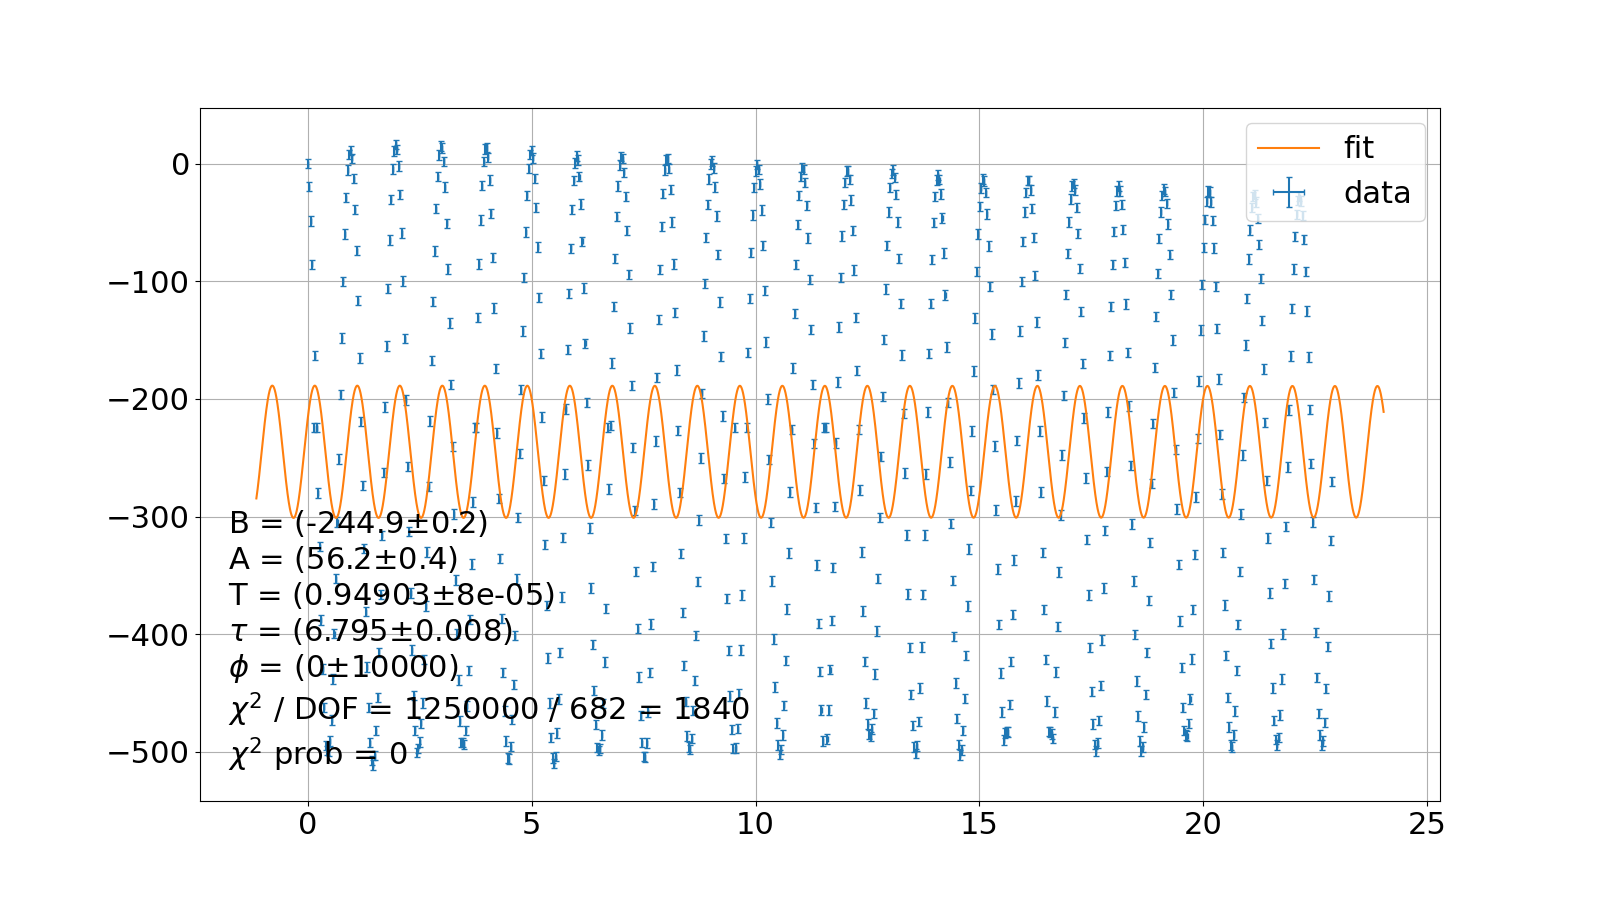
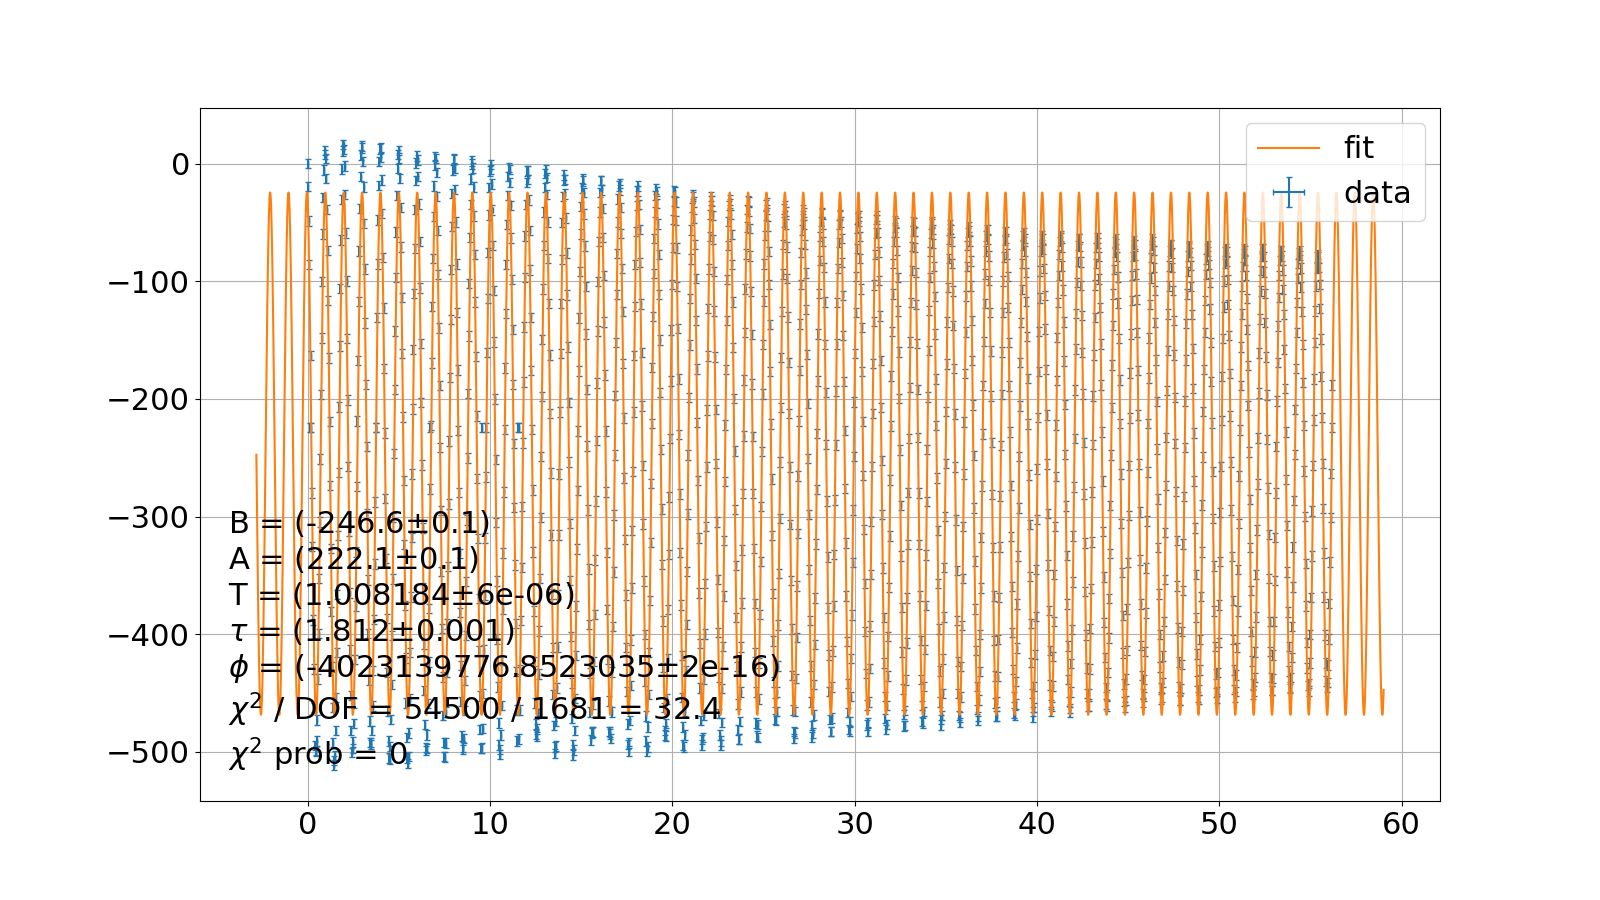
added bounds possibility to curve fitting

diff --git a/main.py b/main.py
@@ -16,8 +16,9 @@ def run_main(filename, show=False, save=False):
     data = data_loader.DataLoader(filename)
     model = fit_models.DecayingSinusoid()
 
+
     fit = fitting.Fitting(model=model, x=data.x, x_error=data.x_error, y_measured=data.y, y_error=data.y_error,
-                          units_for_parameters=('', '', '', '', ''), p0=(150, 100, 1, 10, 50))
+                          units_for_parameters=('', '', '', '', ''), p0=(150, 100, 1, 1.5, 50))
 
     fig, ax = plt.subplots(1, 1, figsize=(16, 9))
 
@@ -46,12 +47,9 @@ vary_angle_filenames = {angle : 'vary_angle_%s' % angle for angle in ['20deg', '
 vary_l_filenames = {l : 'vary_l_%s' % l for l in ['15cm', '20cm', '25cm', '30cm', '35cm']}
 vary_m_filenames = {m : 'vary_m_%s' % m for m in ['50g', '100g', '150g', '200g']}
 
-print(vary_l_filenames)
 
 all_filenames = {**vary_angle_filenames, **vary_l_filenames, **vary_m_filenames}
 
-print(len(vary_angle_filenames), len(vary_l_filenames), len(vary_m_filenames))
-print(len(all_filenames))
 
 # filename = vary_angle_filenames['20cm']
 # single_run_main(filename)

diff --git a/fitting.py b/fitting.py
@@ -20,7 +20,11 @@ class Fitting():
         self.y_measured = y_measured
         self.y_error = y_error
 
-        self.popt, self.pcov = curve_fit(self.model, self.x, self.y_measured, sigma=y_error, absolute_sigma=True, p0=p0, maxfev=100000)
+        if hasattr(model, 'parameter_bounds'):
+            self.popt, self.pcov = curve_fit(self.model, self.x, self.y_measured, sigma=y_error, absolute_sigma=True, p0=p0, bounds=model.parameter_bounds, maxfev=100000, method='trf', verbose=1)
+        else:
+            self.popt, self.pcov = curve_fit(self.model, self.x, self.y_measured, sigma=y_error, absolute_sigma=True, p0=p0, maxfev=100000)
+
         self.parameter_errors = np.sqrt(np.diag(self.pcov))
 
         self.fitted_function = self.model.CorrespondingFittedFunction(popt=self.popt, parameter_errors=self.parameter_errors, units_for_parameters=units_for_parameters)

diff --git a/data_loader.py b/data_loader.py
@@ -4,11 +4,11 @@ cff = CurveFitFuncs()
 
 class DataLoader():
     def __init__(self, filename):
-        directory = 'C:/Users/Kyle/PycharmProjects/PHY324/Pendulum_Project/pendulum_data/%s.txt' % filename
+        directory = 'pendulum_data/%s.txt' % filename
         # directory = filename
         file = open(directory, 'r')
         raw_data = file.read()
-        raw_data = raw_data.split('\n')[2:-1000]
+        raw_data = raw_data.split('\n')[2:500]
         raw_data = [row.split('\t') for row in raw_data]
         raw_data = [['0' if entry == '' else entry for entry in row] for row in raw_data]
         raw_data = [[float(entry) for entry in row] for row in raw_data]

diff --git a/fit_models.py b/fit_models.py
@@ -32,6 +32,7 @@ class DecayingSinusoid():
     def __init__(self):
         self.number_of_parameters = 5
         self.CorrespondingFittedFunction = fitted_models.DecayingSinusoid
+        self.parameter_bounds = ([-np.inf, -np.inf, -np.inf, -1, -np.inf], [np.inf, np.inf, np.inf, 20*np.pi, np.inf])
         
     def __call__(self, t, base, amplitude, period, phase, decay_constant):
         result = base + np.exp(-t / decay_constant) * amplitude * np.sin((2*np.pi / period) * t + phase)
